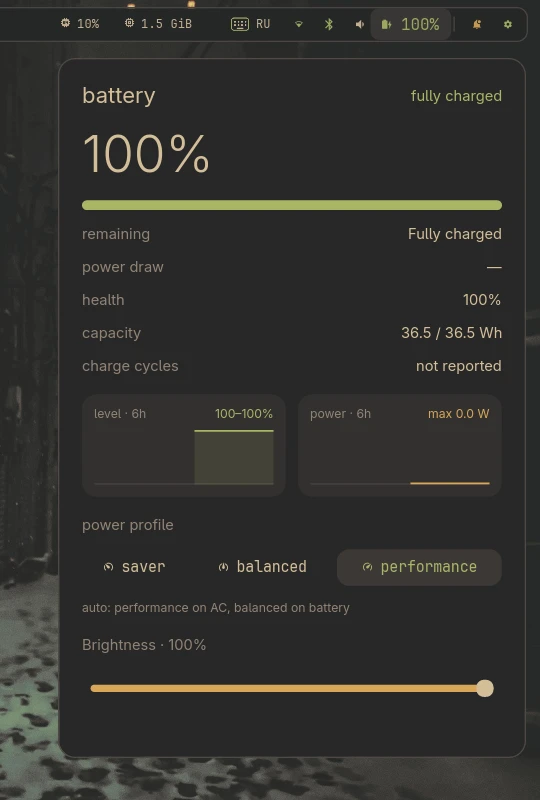
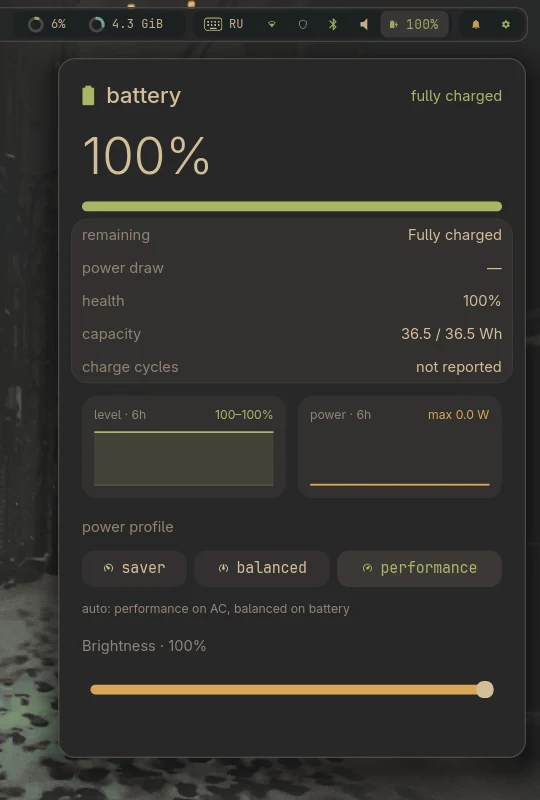
readme: new screenshots, media, motion and the offscreen preview

diff --git a/README.md b/README.md
@@ -4,7 +4,7 @@ a Wayland desktop shell for Hyprland, niri and sway, written in Rust. it draws t
 
 ![control center](docs/screenshots/control.webp)
 
-on one 1920x1080 output it idles at about 28 MB RSS and 0.2% CPU.
+on one 1920x1080 output it idles at about 32 MB RSS and under 0.1% CPU.
 
 ## status
 
@@ -16,8 +16,9 @@ chuhshell is in beta. I built it for my own desktop and then moved every persona
 
 ## features
 
-- **bar**: workspaces, active window title, clock, CPU and RAM, keyboard layout, Wi-Fi, VPN, Bluetooth, volume, battery, tray and a keep awake toggle.
-- **control center**: network and Bluetooth tiles, volume and brightness sliders, keep awake, shortcuts to notifications, clipboard, screenshots, wallpapers and the power menu.
+- **bar**: workspaces, active window title, clock, the playing track, CPU and RAM rings, keyboard layout, Wi-Fi, VPN, Bluetooth, volume, battery and tray.
+- **control center**: CPU, RAM and battery rings, network and Bluetooth tiles, switches for keep awake, do not disturb, the microphone and wallpaper colors, volume and brightness sliders, a media card, shortcuts to notifications, clipboard, screenshots, wallpapers, lock and the power menu.
+- **media**: any MPRIS player shows up in the bar and the control center with cover art, play, pause, next and previous.
 - **launcher**: Unicode search over desktop entries, pinned and hidden apps, terminal entries in your terminal, every app in its own `app.slice` scope.
 - **notifications**: a full `org.freedesktop.Notifications` server with actions, images, markup, history and do not disturb.
 - **tray**: StatusNotifierItem host with dbusmenu submenus.
@@ -30,6 +31,7 @@ chuhshell is in beta. I built it for my own desktop and then moved every persona
 - **themes**: six built-in palettes and per-color overrides.
 - **cursors**: a cursor theme picker that can recolor themes to the current palette.
 - **calendar**, **power menu** and a **system** panel with cores, temperatures, disk, load and top processes.
+- **motion**: panels grow out of their bar chip, content and lists cascade in, clicks send a ripple from the pointer. the curves are the Material 3 expressive set.
 
 ## screenshots
 
@@ -44,7 +46,7 @@ chuhshell is in beta. I built it for my own desktop and then moved every persona
   </tr>
   <tr>
     <td><img src="docs/screenshots/audio.webp" alt="sound"></td>
-    <td></td>
+    <td><img src="docs/screenshots/system.webp" alt="system"></td>
   </tr>
 </table>
 
@@ -212,6 +214,8 @@ bind("XF86AudioRaiseVolume", hl.dsp.exec_cmd("chuhshell msg volumeUp"), { locked
 bind("Print", hl.dsp.exec_cmd("chuhshell msg screenshot"))
 ```
 
+in the bar, a click on the track pauses or resumes the player and a right click skips to the next track. a right click on the volume chip mutes, on the bell it toggles do not disturb, on the VPN chip it connects or disconnects.
+
 in the launcher, `Ctrl + P` or a right click pins the selected app to the top or unpins it, `Ctrl + H` hides it and `Ctrl + Shift + H` shows hidden ones. pinned apps carry a pin icon. the wallpaper gallery reads your wallpapers folder and its `live wallpapers` subfolder; cursor themes go in `cursors` inside it. live wallpapers pause while the active workspace has windows or the screen is locked.
 
 ## how it works
@@ -220,8 +224,8 @@ in the launcher, `Ctrl + P` or a right click pins the selected app to the top or
 | --- | --- |
 | `config` | XDG paths and the TOML config |
 | `platform` | Wayland: outputs, layer surfaces, subsurfaces, popups, shm buffers, damage, input, cursor shape, idle inhibit |
-| `ui` | toolkit: node tree, layout, tiny-skia painting, cosmic-text text, animations ported from Qt easing and springs, widgets |
-| `services` | compositors, PipeWire, UPower, iwd, NetworkManager, BlueZ, logind, notifications, tray, apps, clipboard, wallpapers, themes, Proton VPN |
+| `ui` | toolkit: node tree, layout, tiny-skia painting, cosmic-text text, animations with Qt easing, springs and bezier curves, widgets |
+| `services` | compositors, PipeWire, UPower, iwd, NetworkManager, BlueZ, logind, notifications, tray, MPRIS players, apps, clipboard, wallpapers, themes, Proton VPN |
 | `shell` | the binary: shell state, surfaces, panels and IPC |
 
 calloop drives everything on one thread. zbus futures run on its executor, and each image decode or file scan runs on its own short-lived thread. the shell repaints only damaged regions after frame callbacks and frees surfaces you close.
@@ -235,6 +239,14 @@ cargo test --workspace
 ```
 
 the tests include property tests for the parsers and a notification server test on a private D-Bus session bus, so you need `dbus-daemon`. GitHub Actions runs the same three commands in an Arch container on every push and pull request.
+
+to look at a change without restarting your shell, render the bar and panels to PNG files with made-up data:
+
+```sh
+CHUHSHELL_PREVIEW_DIR=/tmp/preview cargo test -p shell dump -- --ignored
+```
+
+`CHUHSHELL_PREVIEW_PANELS=control,calendar` picks the panels and `CHUHSHELL_PREVIEW_UNTIL=200` stops the clock at 200 ms to catch a frame of the open animation.
 
 `tools/netlab` builds a Wi-Fi lab out of `mac80211_hwsim` radios: hostapd serves `lab-open`, `lab-wpa2`, `lab-sae`, `lab-mixed`, `lab-hidden` and `lab-hidden-open` in one network namespace, and NetworkManager or iwd runs in another with its own system bus. your own Wi-Fi keeps working, and only the user who started the lab can reach its bus. it needs root, `hostapd`, `dnsmasq`, `networkmanager` and `iwd`.
 
